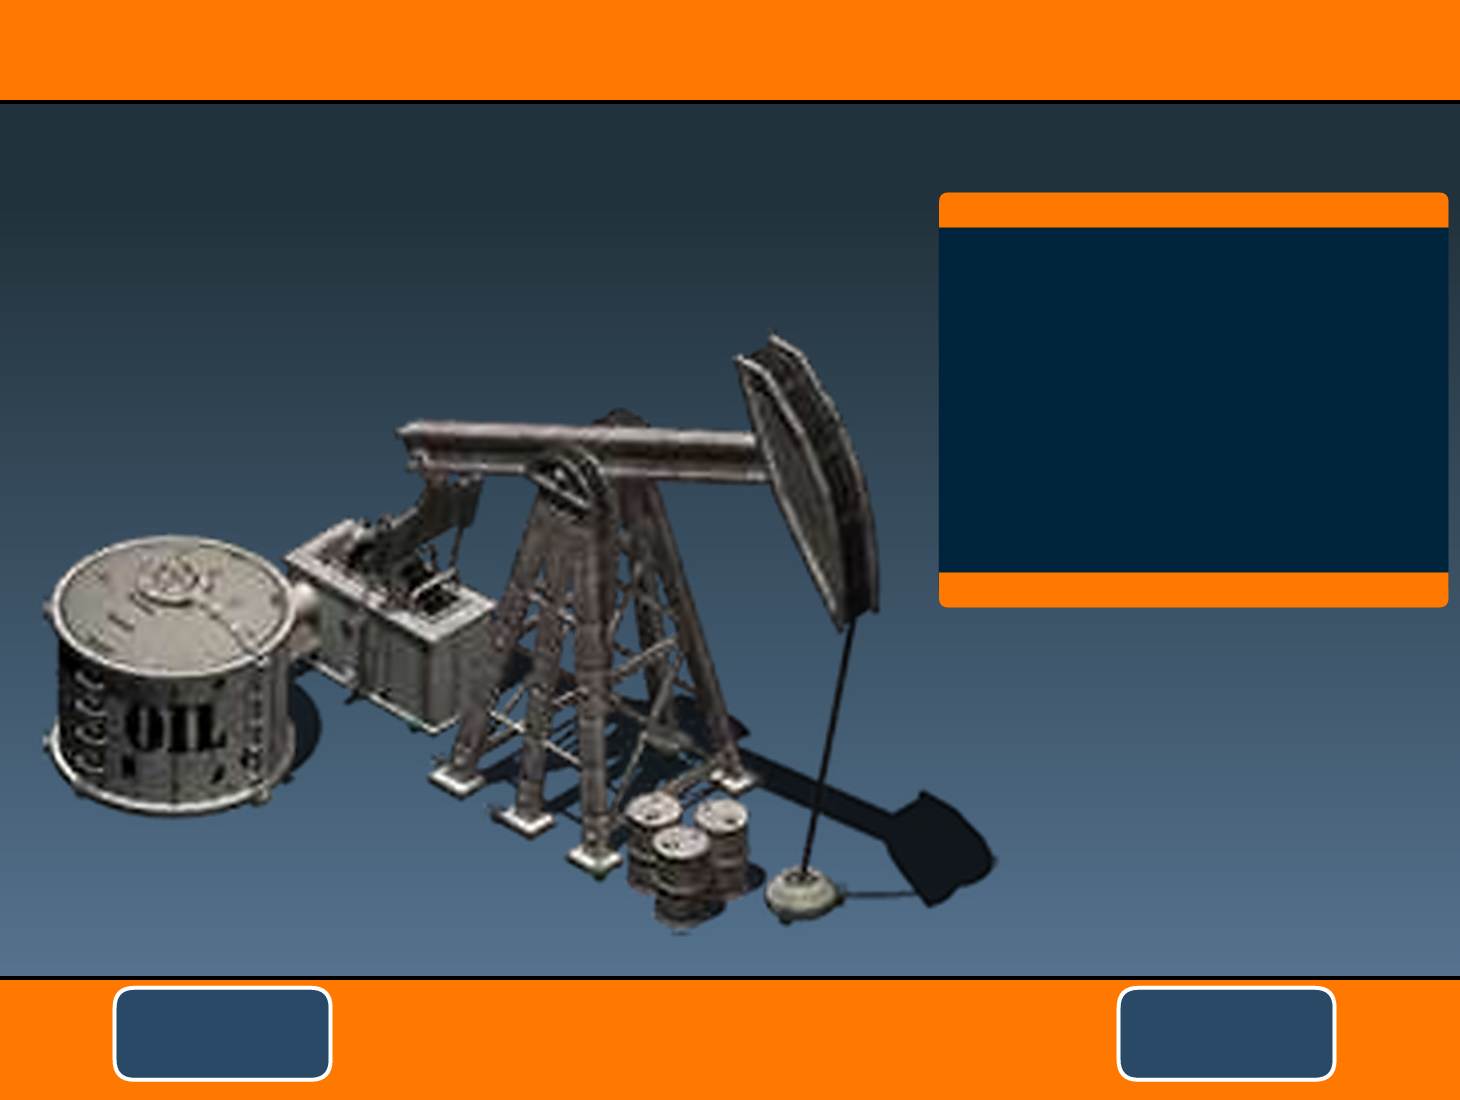
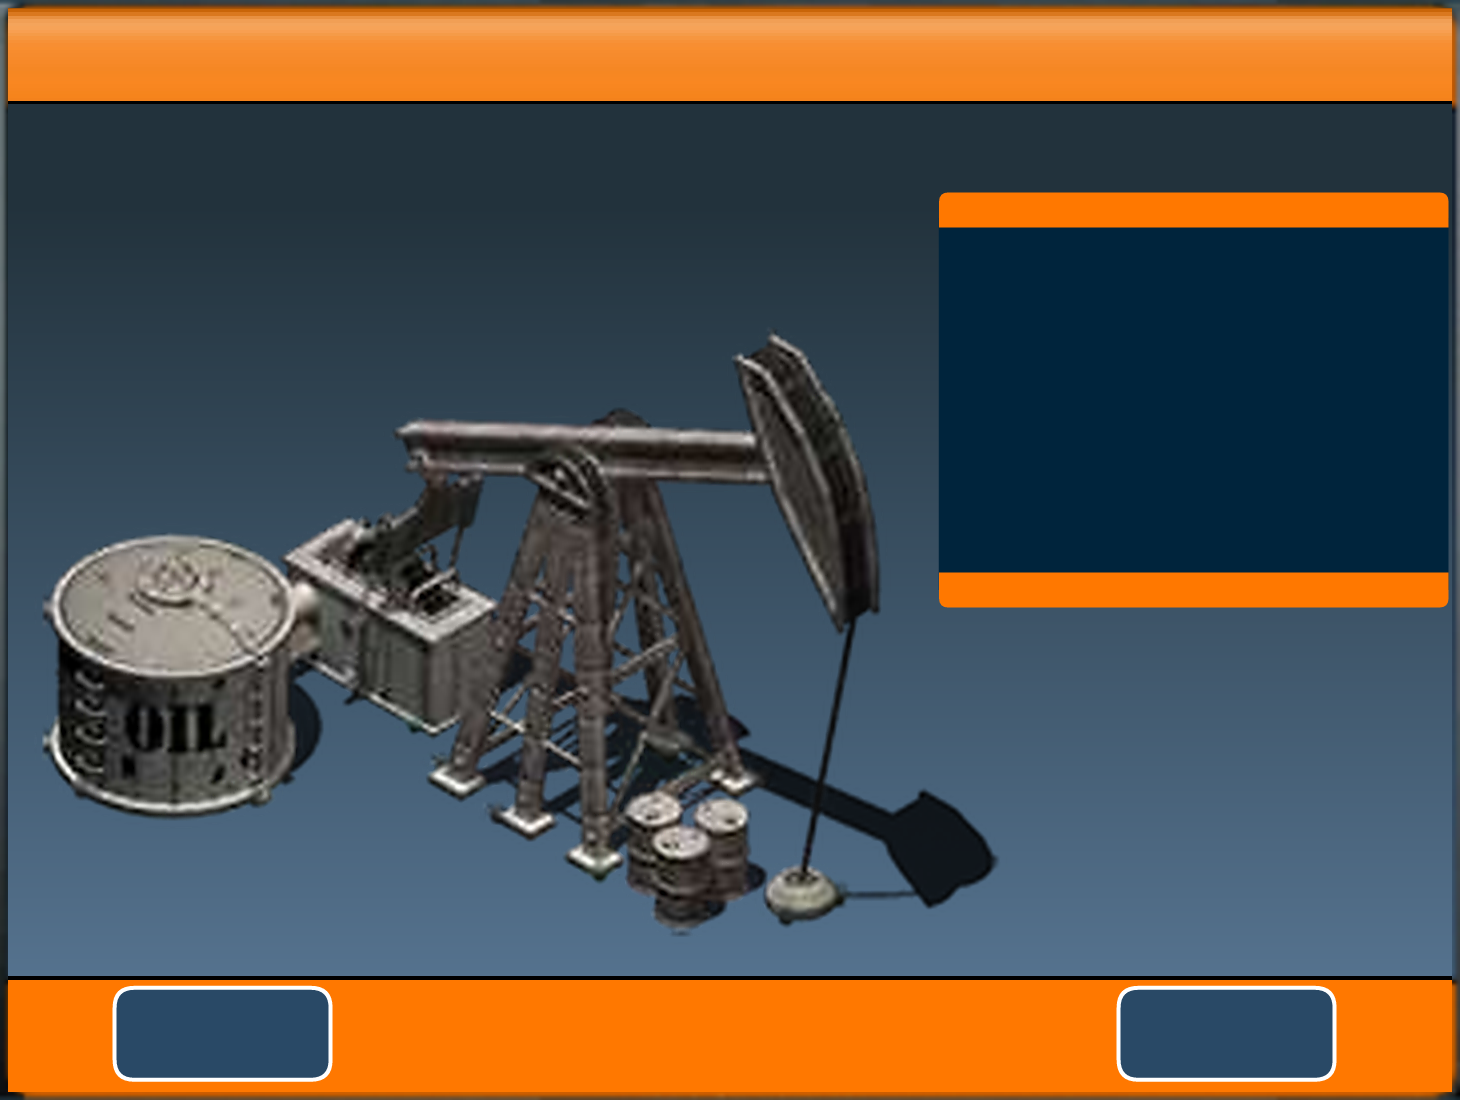
fix: retain original dialog chrome and fit sharp labels

Changed region(s): [[0.0, 0.0, 1.0, 0.5255], [0.0, 0.5564, 1.0, 1.0]]

diff --git a/app/src/main/java/com/example/worlddomination/game/rendering/ResourceMenuRenderer.java b/app/src/main/java/com/example/worlddomination/game/rendering/ResourceMenuRenderer.java
@@ -34,17 +34,17 @@ public final class ResourceMenuRenderer implements Disposable {
         text.update(state);
         batch.setColor(Color.WHITE);
         batch.draw(background, bounds.x, bounds.y, bounds.width, bounds.height);
-        label(batch, bounds, "RESOURCE MENU", 14f, 7f, 16f, Color.WHITE, false);
-        label(batch, bounds, text.getBudget(), 360f, 15f, 8f, INK, true);
-        label(batch, bounds, "Resource Information", 237f, 49f, 8.5f, Color.WHITE, false);
-        label(batch, bounds, "Population:", 237f, 66f, 8f, Color.WHITE, false);
-        label(batch, bounds, text.getPopulation(), 360f, 66f, 8f, Color.WHITE, true);
-        label(batch, bounds, "Resource:", 237f, 81f, 8f, Color.WHITE, false);
-        label(batch, bounds, "OIL", 360f, 81f, 8f, Color.WHITE, true);
-        label(batch, bounds, "Estimated income:", 237f, 117f, 8f, ORANGE, false);
-        label(batch, bounds, text.getIncome(), 360f, 130f, 13f, ORANGE, true);
-        label(batch, bounds, "CANCEL", 81f, 255f, 10f, Color.WHITE, true);
-        label(batch, bounds, "ACCEPT", 332f, 255f, 10f, Color.WHITE, true);
+        label(batch, bounds, "RESOURCE MENU", 9f, 9f, 12.5f, Color.WHITE, false);
+        label(batch, bounds, text.getBudget(), 357f, 16f, 6.8f, INK, true);
+        label(batch, bounds, "Resource Information", 237f, 49f, 6.9f, Color.WHITE, false);
+        label(batch, bounds, "Population:", 237f, 67f, 7.4f, Color.WHITE, false);
+        label(batch, bounds, text.getPopulation(), 357f, 67f, 7.4f, Color.WHITE, true);
+        label(batch, bounds, "Resource:", 237f, 82f, 7.4f, Color.WHITE, false);
+        label(batch, bounds, "OIL", 357f, 82f, 7.4f, Color.WHITE, true);
+        label(batch, bounds, "Estimated income:", 237f, 117f, 7.4f, ORANGE, false);
+        label(batch, bounds, text.getIncome(), 357f, 130f, 10.5f, ORANGE, true);
+        label(batch, bounds, "CANCEL", 76f, 255f, 7.5f, Color.WHITE, true);
+        label(batch, bounds, "ACCEPT", 327f, 255f, 7.5f, Color.WHITE, true);
         batch.setColor(Color.WHITE);
     }
 
